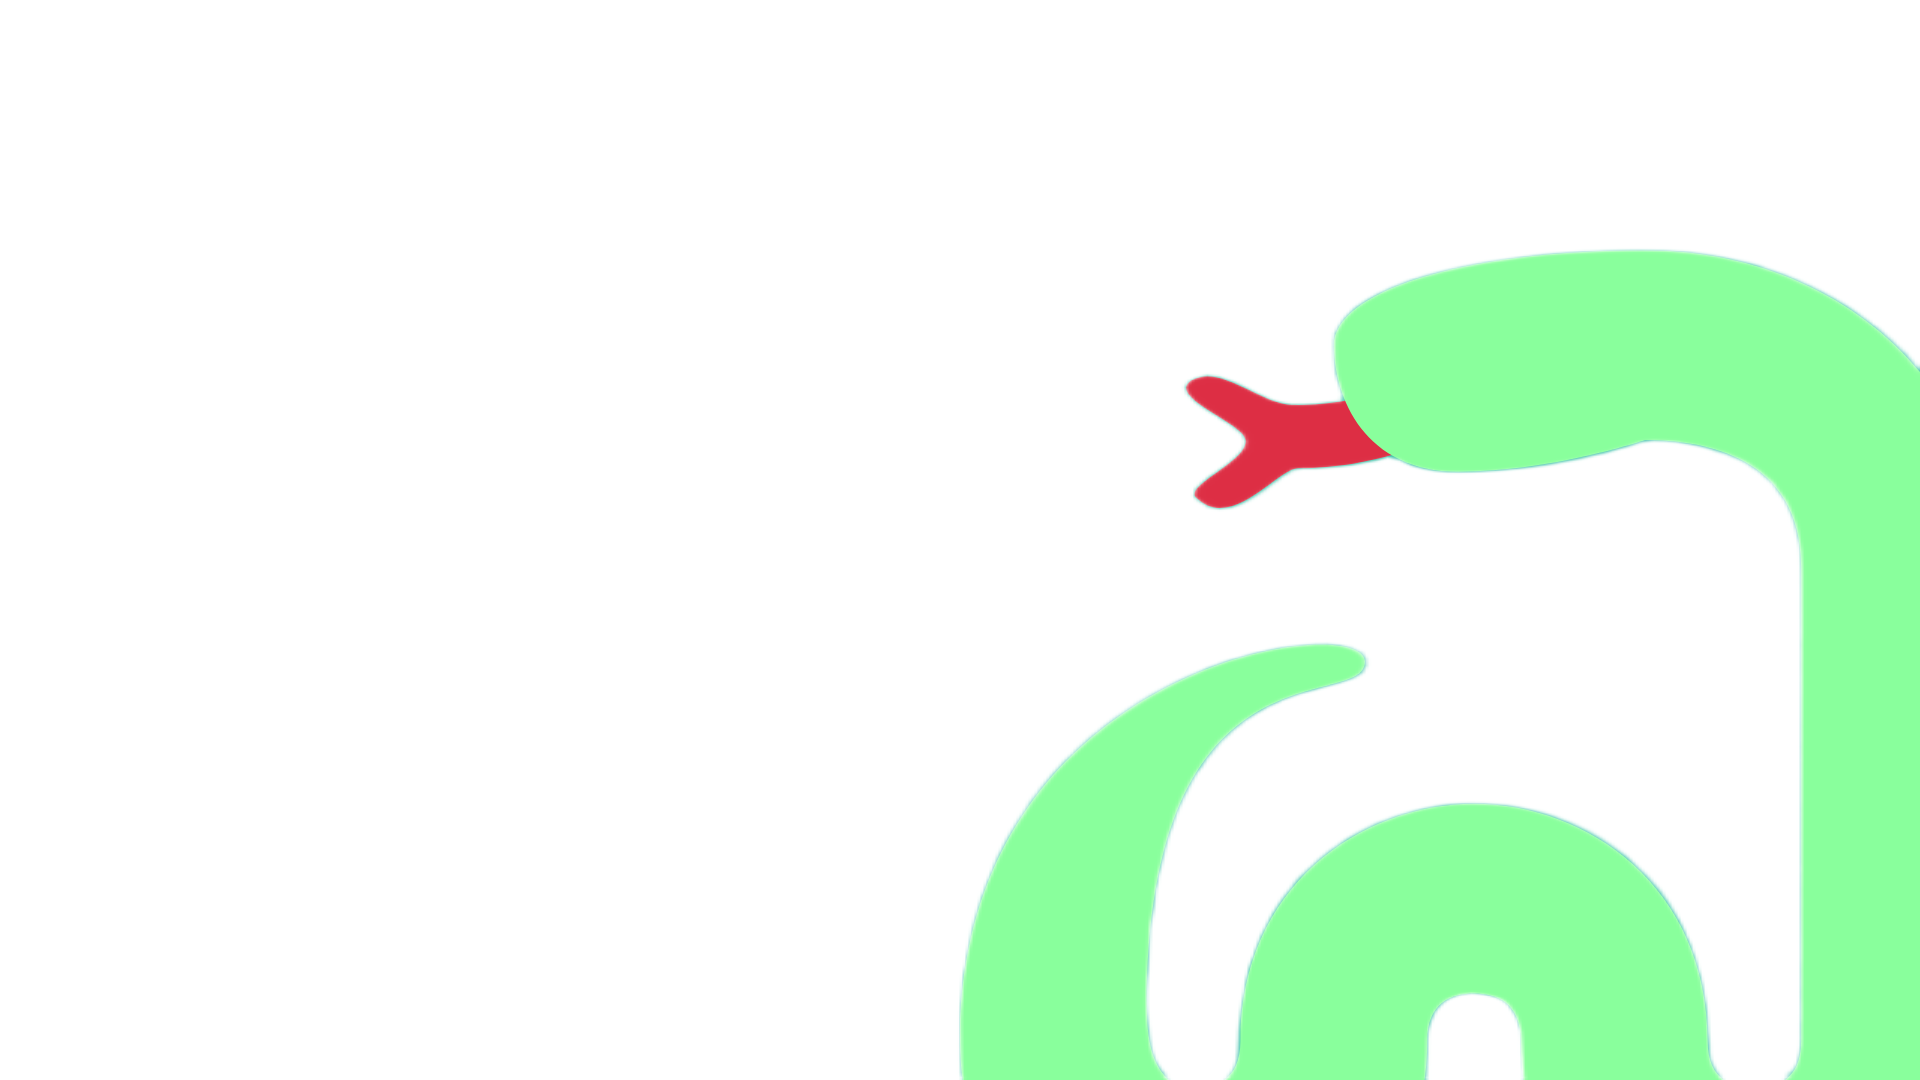
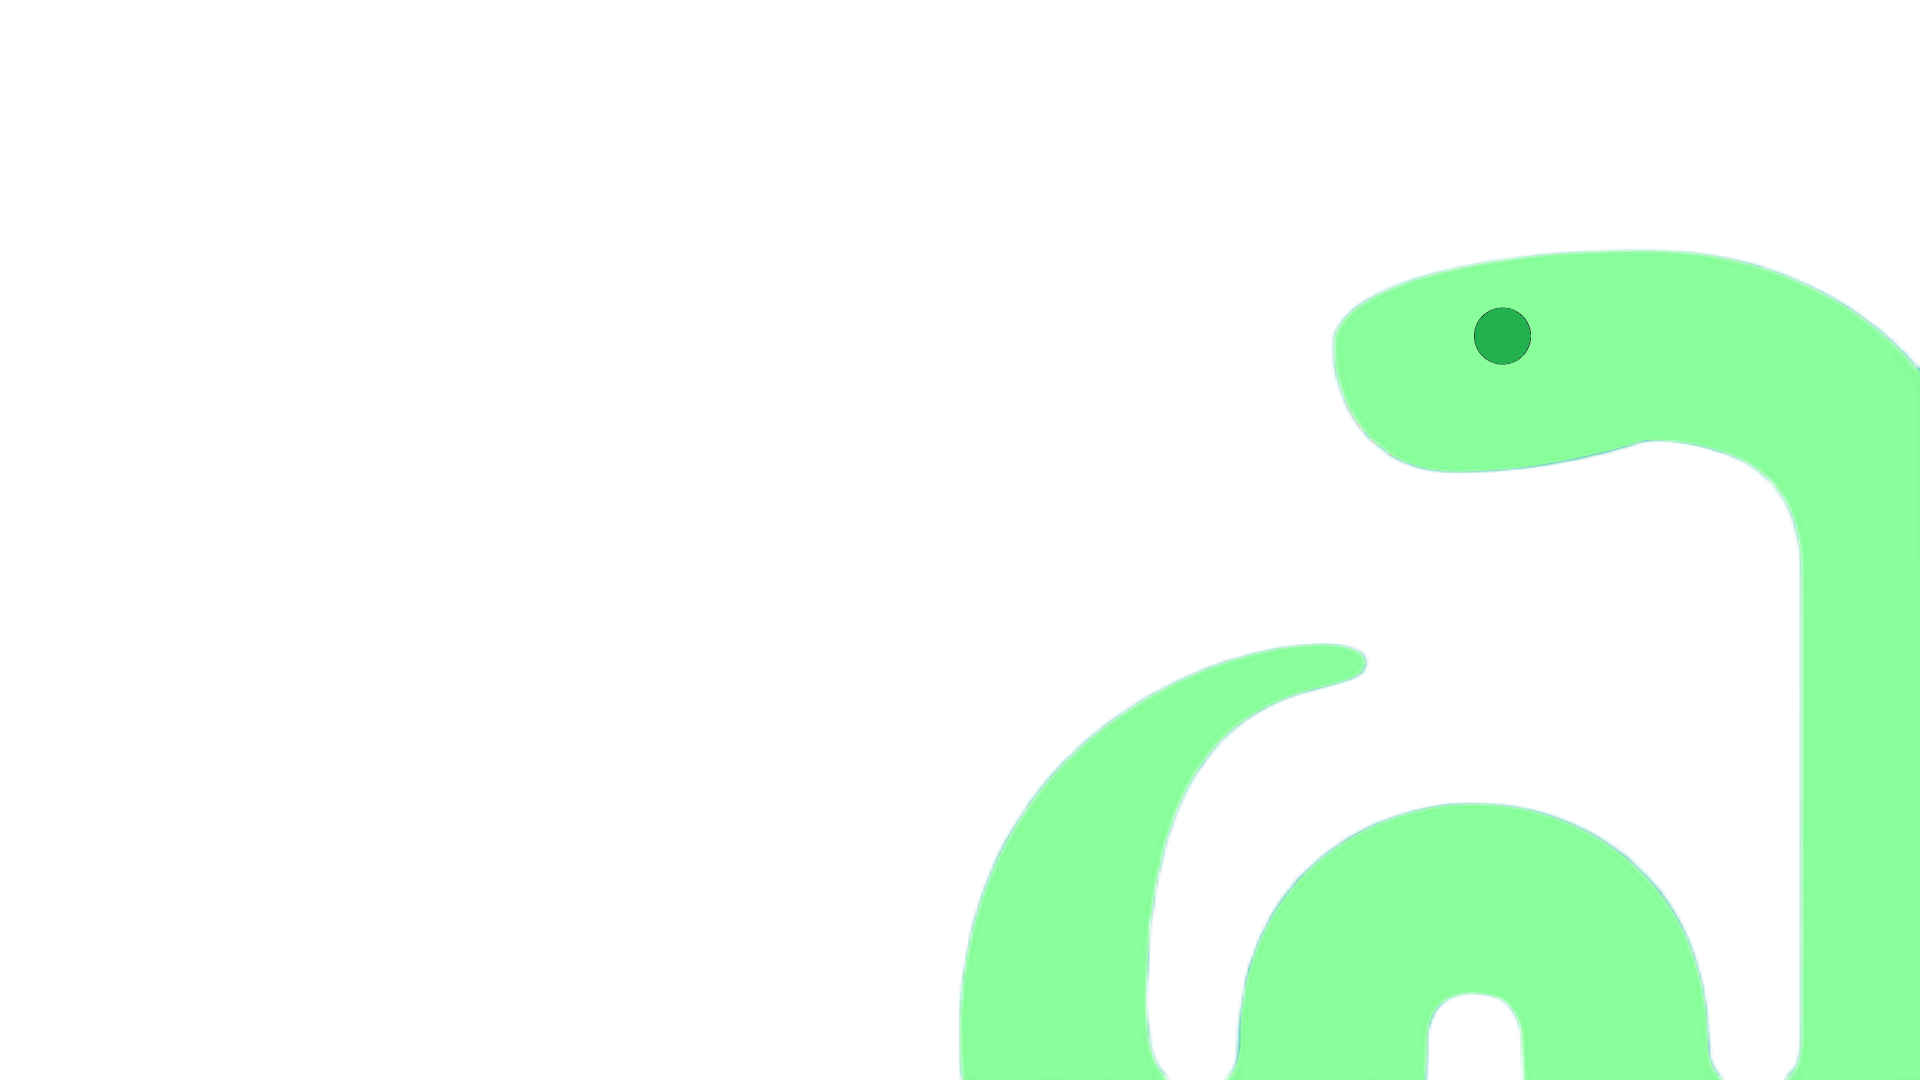
điều chỉnh

Changed region(s): [[0.5938, 0.3361, 0.7188, 0.4889], [0.75, 0.275, 0.8125, 0.3361]]

diff --git a/snake_game/snake/scenes/intro.py b/snake_game/snake/scenes/intro.py
@@ -75,22 +75,29 @@ class BackgroundLayer:
         screen.blit(rotated, (x, y))
 
 
-class SnakeBlink:
+class Snake_effect:
     def __init__(self, scale=0.90):
         base_path = f"snake/images/scence_images/"
         p_open   = pygame.image.load(base_path+"bg_1.on.png")
         p_closed = pygame.image.load(base_path+"bg_1.off.png")
+        p_tongue = pygame.image.load(base_path+"bg_1.tongue.png")
         self.open   = pygame.transform.smoothscale(p_open.convert_alpha(),(int(SCREEN_W*scale), int(SCREEN_H*scale)))
         self.closed = pygame.transform.smoothscale(p_closed.convert_alpha(),(int(SCREEN_W*scale), int(SCREEN_H*scale)))
+        self.tongue = pygame.transform.smoothscale(p_tongue.convert_alpha(),(int(SCREEN_W*scale), int(SCREEN_H*scale)))
         # đặt mép phải, hơi lệch vào trong màn hình
-        self.pos = (SCREEN_W - self.open.get_width() + int(SCREEN_W*0.02),
-                    SCREEN_H - self.open.get_height() + int(SCREEN_H*0.02))
-        self.BLINK_PERIOD = 3.0  # mỗi 5s
+        self.pos = (SCREEN_W - self.open.get_width() + int(SCREEN_W*0.02),SCREEN_H - self.open.get_height() + int(SCREEN_H*0.02))
+        self.BLINK_PERIOD = 5.0  # mỗi 5s
         self.BLINK_LEN    = 0.12 # nhắm 120ms
-
+        self.TONGUE_PERIOD = 3.0  # mỗi 3s
+        self.TONGUE_LEN    = 0.3  # lè lưỡi 300ms
     def draw(self, screen, t):
         blink_phase = (t % self.BLINK_PERIOD)
-        img = self.closed if blink_phase < self.BLINK_LEN else self.open
+        tongue_phase = (t % self.TONGUE_PERIOD)
+        img = self.open
+        if blink_phase < self.BLINK_LEN :
+            img = self.closed
+        if tongue_phase < self.TONGUE_LEN:
+            img =self.tongue
         screen.blit(img, self.pos)
 
 
@@ -103,7 +110,7 @@ class Background_Menu:
        
         self.title = BackgroundLayer("bg_1.title", use_alpha=True, scale_factor=1.00, rot_deg=3.0,period=3.0, pulse=0.06, pulse_period=8.0)
        
-        self.snake = SnakeBlink(scale=0.90)
+        self.snake = Snake_effect(scale=0.90)
 
     def draw(self, screen, t):
         # vẽ theo thứ tự: nền -> ánh sáng -> rắn -> tiêu đề
